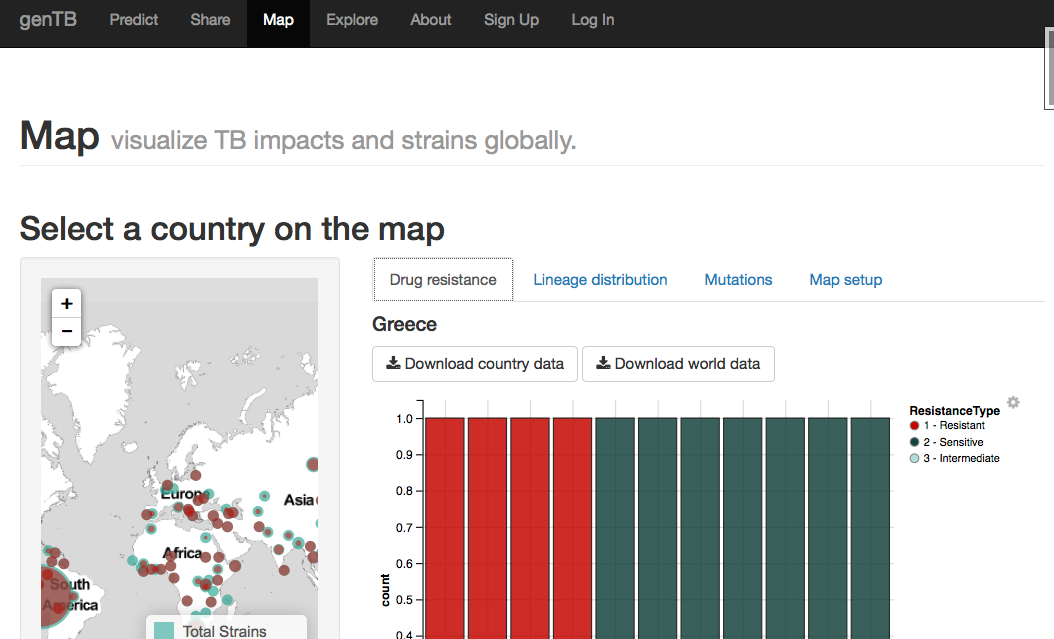
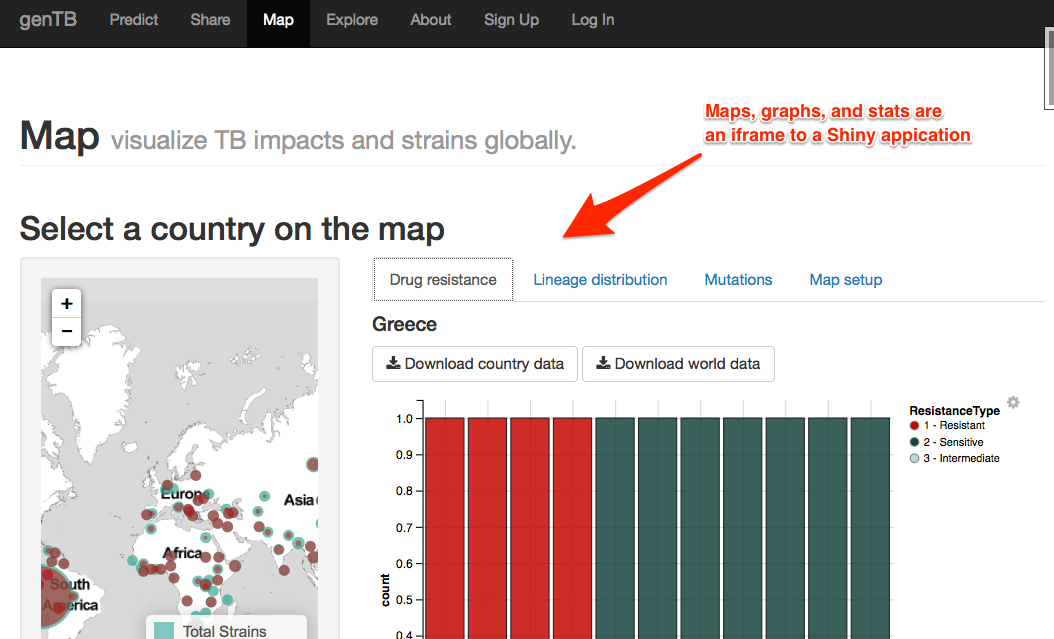
maps

Changed region(s): [[0.6679, 0.1487, 0.9412, 0.2379], [0.5161, 0.2676, 0.6376, 0.3865], [0.6376, 0.2379, 0.6679, 0.2676]]

diff --git a/README.md b/README.md
@@ -30,7 +30,7 @@ A basic view/template combination.  The template includes embedded [Dataverse Wi
 
 ### Map
 
-A basic view/template combination.  The template includes embedded an iframe of a Shiny application which allows interactive browsing.  The url to the iframe is written directly into the template.
+A basic view/template combination.  The maps are actually hosted by a Shiny application and embedded in an iframe.  The url to the iframe is written directly into the template.
 
   - View: "view_map_page" [gentb_website/tb_website/apps/maps/views.py](gentb_website/tb_website/apps/maps/views.py)
   - Template: [gentb_website/tb_website/templates/maps/basic_map.html](gentb_website/tb_website/templates/maps/basic_map.html)
